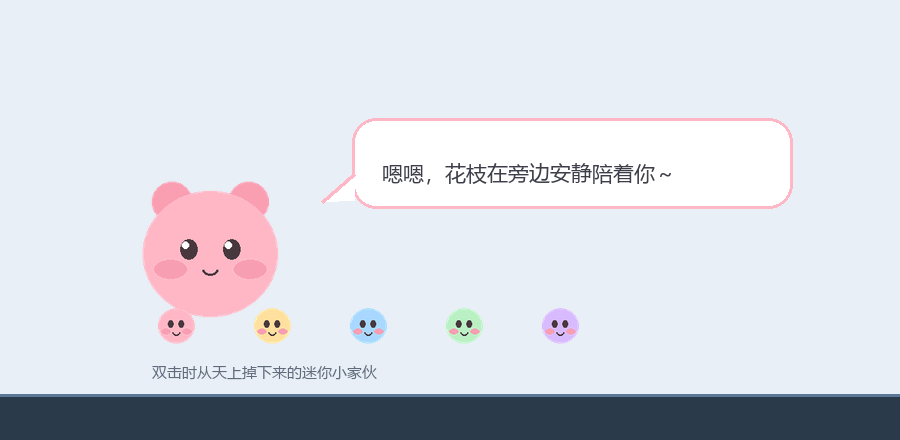
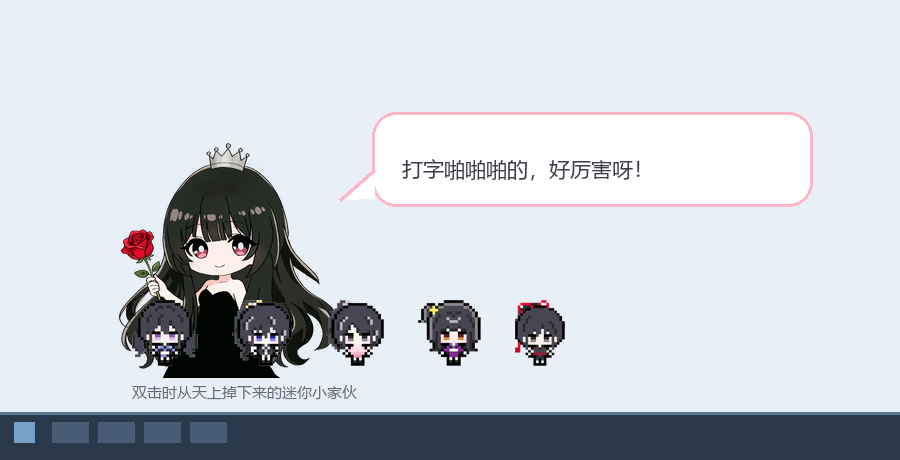
make pet name configurable

diff --git a/main.py b/main.py
@@ -56,6 +56,7 @@ def get_data_dir():
 # ============ 可配置参数 ============
 PET_IMAGE = get_resource_path("pet_transparent.png")
 MINI_IMAGES = [get_resource_path(f"mini_{i}.png") for i in range(1, 6)]
+DEFAULT_PET_NAME = "花枝"  # 台词里的 {name} 会替换成它
 MIN_SCALE = 0.1
 MAX_SCALE = 1.0
 DEFAULT_SCALE = 0.1
@@ -78,65 +79,65 @@ LINES_PATH = os.path.join(DATA_DIR, "lines.json")
 # 默认台词库
 DEFAULT_LINES = {
     "idle": [
-        "（探头）哈喽呀～你终于来啦，花枝等你好久了啊啊啊💗",
-        "哦哈哟～今天也要元气满满哦，花枝给你注入能量！੧ᐛ੭",
-        "（歪头）咦你回来啦，快过来让花枝看看有没有好好吃饭◐⩊◑",
-        "嘤嘤嘤人家好无聊，有没有人来陪花枝聊聊天嘛（）",
-        "（戳戳你）在看什么呢在看什么呢，让花枝也看看嘛～",
-        "呜呜呜你都不理花枝，花枝要黑化了哦💢（才不会，理我一下嘛）",
-        "花枝哈拿提醒您，该次饭啦🍚再不吃饭饭就要凉了哦",
+        "（探头）哈喽呀～你终于来啦，{name}等你好久了啊啊啊💗",
+        "哦哈哟～今天也要元气满满哦，{name}给你注入能量！੧ᐛ੭",
+        "（歪头）咦你回来啦，快过来让{name}看看有没有好好吃饭◐⩊◑",
+        "嘤嘤嘤人家好无聊，有没有人来陪{name}聊聊天嘛（）",
+        "（戳戳你）在看什么呢在看什么呢，让{name}也看看嘛～",
+        "呜呜呜你都不理{name}，{name}要黑化了哦💢（才不会，理我一下嘛）",
+        "{name}提醒您，该次饭啦🍚再不吃饭饭就要凉了哦",
         "（打哈欠）好困哦... 但是还想再陪你一会儿...zzz",
-        "工作加油哦！花枝在旁边给你应援！！✊🏻摸鱼也可以的（小声）",
+        "工作加油哦！{name}在旁边给你应援！！✊🏻摸鱼也可以的（小声）",
         "唉今天也是摸鱼的一天呢，不过摸鱼好快乐啊哈哈哈哈🤪",
         "报一丝报一丝，刚才不小心把你的零食吃掉了（x）真的只吃了一口",
-        "（突然凑近）悄悄告诉你，花枝今天也超级喜欢你呀💗",
+        "（突然凑近）悄悄告诉你，{name}今天也超级喜欢你呀💗",
         "系不系今天也很辛苦呀，来，给你抱抱🤗",
         "你说... 爱就爱不爱就不爱，可爱是什么意思呀😠",
-        "想不想跟花枝回武汉七热干面呀，花枝请客（才怪，你请）",
-        "（递上一颗糖）给你吃，吃完就要开心起来哦,不开心花枝会心疼的 TT",
-        "没关系的啦，天塌下来有花枝顶着（虽然花枝也顶不住），一切都会好的ʔ・̫͡・ʕ",
+        "想不想跟{name}回武汉七热干面呀，{name}请客（才怪，你请）",
+        "（递上一颗糖）给你吃，吃完就要开心起来哦,不开心{name}会心疼的 TT",
+        "没关系的啦，天塌下来有{name}顶着（虽然{name}也顶不住），一切都会好的ʔ・̫͡・ʕ",
         "在相册翻翻捡捡... 发现有你的每一天都是独一无二的幸福🌸",
         "哎呀不小心打翻水杯了...（收拾中）就当是给地板洗个澡吧（）",
-        "（一本正经）人类已经无法阻止花枝哈拿了！（下一秒）啊好饿，次饭去",
+        "（一本正经）人类已经无法阻止{name}了！（下一秒）啊好饿，次饭去",
     ],
     "click": [
-        "（探头）哈喽呀～你终于来啦，花枝等你好久了啊啊啊💗",
-        "哦哈哟～今天也要元气满满哦，花枝给你注入能量！੧ᐛ੭",
-        "（歪头）咦你回来啦，快过来让花枝看看有没有好好吃饭◐⩊◑",
-        "嘤嘤嘤人家好无聊，有没有人来陪花枝聊聊天嘛（）",
-        "（戳戳你）在看什么呢在看什么呢，让花枝也看看嘛～",
-        "呜呜呜你都不理花枝，花枝要黑化了哦💢（才不会，理我一下嘛）",
+        "（探头）哈喽呀～你终于来啦，{name}等你好久了啊啊啊💗",
+        "哦哈哟～今天也要元气满满哦，{name}给你注入能量！੧ᐛ੭",
+        "（歪头）咦你回来啦，快过来让{name}看看有没有好好吃饭◐⩊◑",
+        "嘤嘤嘤人家好无聊，有没有人来陪{name}聊聊天嘛（）",
+        "（戳戳你）在看什么呢在看什么呢，让{name}也看看嘛～",
+        "呜呜呜你都不理{name}，{name}要黑化了哦💢（才不会，理我一下嘛）",
         "系不系今天也很辛苦呀，来，给你抱抱🤗",
         "你说... 爱就爱不爱就不爱，可爱是什么意思呀😠",
-        "（突然凑近）悄悄告诉你，花枝今天也超级喜欢你呀💗",
-        "（递上一颗糖）给你吃，吃完就要开心起来哦,不开心花枝会心疼的 TT",
+        "（突然凑近）悄悄告诉你，{name}今天也超级喜欢你呀💗",
+        "（递上一颗糖）给你吃，吃完就要开心起来哦,不开心{name}会心疼的 TT",
     ],
     "double": [
         "哎呀不小心打翻水杯了...（收拾中）就当是给地板洗个澡吧（）",
-        "（一本正经）人类已经无法阻止花枝哈拿了！（下一秒）啊好饿，次饭去",
+        "（一本正经）人类已经无法阻止{name}了！（下一秒）啊好饿，次饭去",
         "报一丝报一丝，刚才不小心把你的零食吃掉了（x）真的只吃了一口",
         "唉今天也是摸鱼的一天呢，不过摸鱼好快乐啊哈哈哈哈🤪",
-        "想不想跟花枝回武汉七热干面呀，花枝请客（才怪，你请）",
-        "工作加油哦！花枝在旁边给你应援！！✊🏻摸鱼也可以的（小声）",
+        "想不想跟{name}回武汉七热干面呀，{name}请客（才怪，你请）",
+        "工作加油哦！{name}在旁边给你应援！！✊🏻摸鱼也可以的（小声）",
     ],
     "typing_long": [
         "哇，你打了好多字呀，辛苦了～",
-        "认真工作的样子好帅！花枝给你捶捶背🤗",
+        "认真工作的样子好帅！{name}给你捶捶背🤗",
         "这么多内容，是在写什么重要的东西吗～",
     ],
     "typing_medium": [
-        "嗯嗯，花枝在旁边安静陪着你～",
-        "加油加油！花枝为你应援✊",
+        "嗯嗯，{name}在旁边安静陪着你～",
+        "加油加油！{name}为你应援✊",
         "打字打得好认真呀，要不要休息一下～",
     ],
     "typing_short": [
-        "你在跟谁聊天呀～是不是在说花枝的好话😳",
-        "在写什么呢在写什么呢，让花枝看看嘛～",
-        "哦哦，又在忙啦，花枝不打扰你了",
+        "你在跟谁聊天呀～是不是在说{name}的好话😳",
+        "在写什么呢在写什么呢，让{name}看看嘛～",
+        "哦哦，又在忙啦，{name}不打扰你了",
         "打字啪啪啪的，好厉害呀！",
     ],
     "cling": [
-        "抱住啦～花枝会乖乖陪着你的🥰",
+        "抱住啦～{name}会乖乖陪着你的🥰",
         "嘿嘿，攀上来咯，这里视野不错呀～",
         "抱紧抱紧，不会掉下去的（才怪）",
     ],
@@ -145,7 +146,7 @@ DEFAULT_LINES = {
     ],
     "greeting_morning": [
         "早上好呀～新的一天也要元气满满哦☀",
-        "早安早安，花枝已经等你好久啦～",
+        "早安早安，{name}已经等你好久啦～",
     ],
     "greeting_afternoon": [
         "下午好呀～要不要喝杯奶茶提提神🥤",
@@ -153,11 +154,11 @@ DEFAULT_LINES = {
     ],
     "greeting_evening": [
         "晚上好呀～今天也辛苦啦💗",
-        "晚饭吃了吗？不吃饭花枝会担心的哦",
+        "晚饭吃了吗？不吃饭{name}会担心的哦",
     ],
     "greeting_night": [
-        "这么晚还不睡呀～花枝陪你熬夜🌙",
-        "夜深了，要注意休息哦，花枝会心疼的",
+        "这么晚还不睡呀～{name}陪你熬夜🌙",
+        "夜深了，要注意休息哦，{name}会心疼的",
     ],
 }
 
@@ -751,7 +752,7 @@ class SettingsDialog(QDialog):
     def __init__(self, pet, parent=None):
         super().__init__(parent)
         self.pet = pet
-        self.setWindowTitle("花枝设置")
+        self.setWindowTitle(f"{self.pet_name}设置")
         self.setFixedSize(340, 500)
 
         layout = QVBoxLayout()
@@ -1075,6 +1076,7 @@ class DesktopPet(QWidget):
         self.sound_enabled = cfg.get("sound_enabled", True)
         self.sound_volume = cfg.get("sound_volume", 50)
         self.current_skin = cfg.get("current_skin", "pet_transparent.png")
+        self.pet_name = cfg.get("pet_name", DEFAULT_PET_NAME)
         self._last_translated_text = ""
         # 加载选择的形象
         self._load_skin(self.current_skin)
@@ -1418,6 +1420,8 @@ class DesktopPet(QWidget):
         return result
 
     def _show_bubble(self, text):
+        # 台词里的 {name} 占位符换成宠物名
+        text = text.replace("{name}", self.pet_name)
         # 气泡显示在宠物左侧，尾巴指向玫瑰花（避开头顶小人掉落区域）
         rose_x = self.x() + int(self.width() * 0.14)
         rose_y = self.y() + int(self.height() * 0.35)
@@ -1850,7 +1854,7 @@ class DesktopPet(QWidget):
 
     def _detach(self, say_goodbye=False):
         if say_goodbye and self.bubble_enabled and self.attached_window and self.attached_window != "screen":
-            self._show_bubble("诶？窗口不见啦，花枝自己去玩咯～")
+            self._show_bubble("诶？窗口不见啦，{name}自己去玩咯～")
         self.attached_window = None
         self.attached_side = None
         self.attach_timer.stop()
@@ -1915,6 +1919,7 @@ class DesktopPet(QWidget):
                 "sound_enabled": self.sound_enabled,
                 "sound_volume": self.sound_volume,
                 "current_skin": self.current_skin,
+                "pet_name": self.pet_name,
             }
             with open(CONFIG_PATH, "w", encoding="utf-8") as f:
                 json.dump(cfg, f, ensure_ascii=False, indent=2)
@@ -2099,7 +2104,7 @@ class DesktopPet(QWidget):
         self.typing_enabled = not self.typing_enabled
         if self.typing_enabled:
             self._start_keyboard_hook()
-            self._show_bubble("打字反应已开启～打字时花枝会陪你哦⌨")
+            self._show_bubble("打字反应已开启～打字时{name}会陪你哦⌨")
         else:
             self._stop_keyboard_hook()
             self._show_bubble("打字反应已关闭")
@@ -2723,7 +2728,7 @@ render();
         self.tray = QSystemTrayIcon(self)
         icon = QIcon(PET_IMAGE)
         self.tray.setIcon(icon)
-        self.tray.setToolTip("桌面宠物 - 花枝")
+        self.tray.setToolTip(f"桌面宠物 - {self.pet_name}")
         tray_menu = QMenu()
         act_settings = tray_menu.addAction("⚙ 设置...")
         act_settings.triggered.connect(self._show_settings_dialog)

diff --git a/README.md b/README.md
@@ -6,8 +6,8 @@ A transparent desktop companion that talks back, naps on your screen, and looks 
 
 ![Preview](docs/preview.png)
 
-> 上图用的是仓库自带的**占位形象**（`placeholder/`）。真实的宠物素材是私人手绘，不随仓库分发 —— 见下方「自备素材」。
-> The screenshot above uses the **bundled placeholder sprites**. The real artwork is personal and not redistributed with the repo — see [Bring your own sprites](#bring-your-own-sprites).
+> 上图用的是**作者自绘的形象**（素材原文件不随仓库分发）。仓库另带一套占位形象，clone 后复制一下就能跑 —— 见下方「自备素材」。
+> The screenshot shows the **author's own artwork** (source PNGs aren't redistributed). The repo also ships placeholder sprites so it runs right after cloning — see [Bring your own sprites](#bring-your-own-sprites).
 
 ---
 
@@ -124,6 +124,16 @@ data/
 ├── typing_log.txt      # 调试日志（按需生成）
 ├── translation_log.txt # 调试日志（按需生成）
 └── screenshots/        # 截图保存目录
+```
+
+### 改宠物名 · Rename your pet
+
+台词里的 `{name}` 是占位符，运行时替换成 `pet_config.json` 里的 `pet_name`，默认是「花枝」。想叫别的就改这一项：
+
+Dialogue lines contain a `{name}` placeholder that resolves at runtime from `pet_name` in `pet_config.json` (defaults to 花枝). Change it to whatever you call your pet:
+
+```json
+{ "pet_name": "小豆丁" }
 ```
 
 ---
